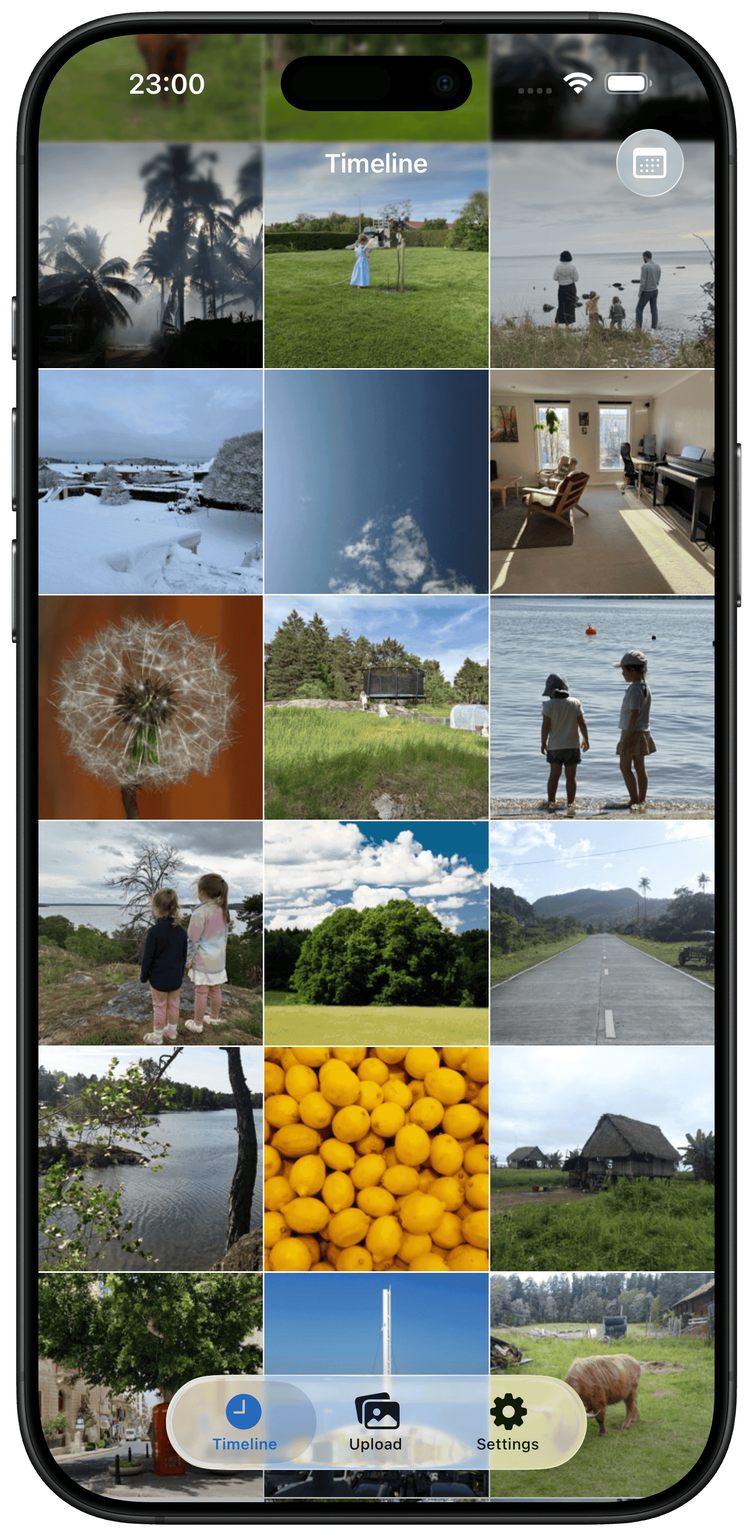
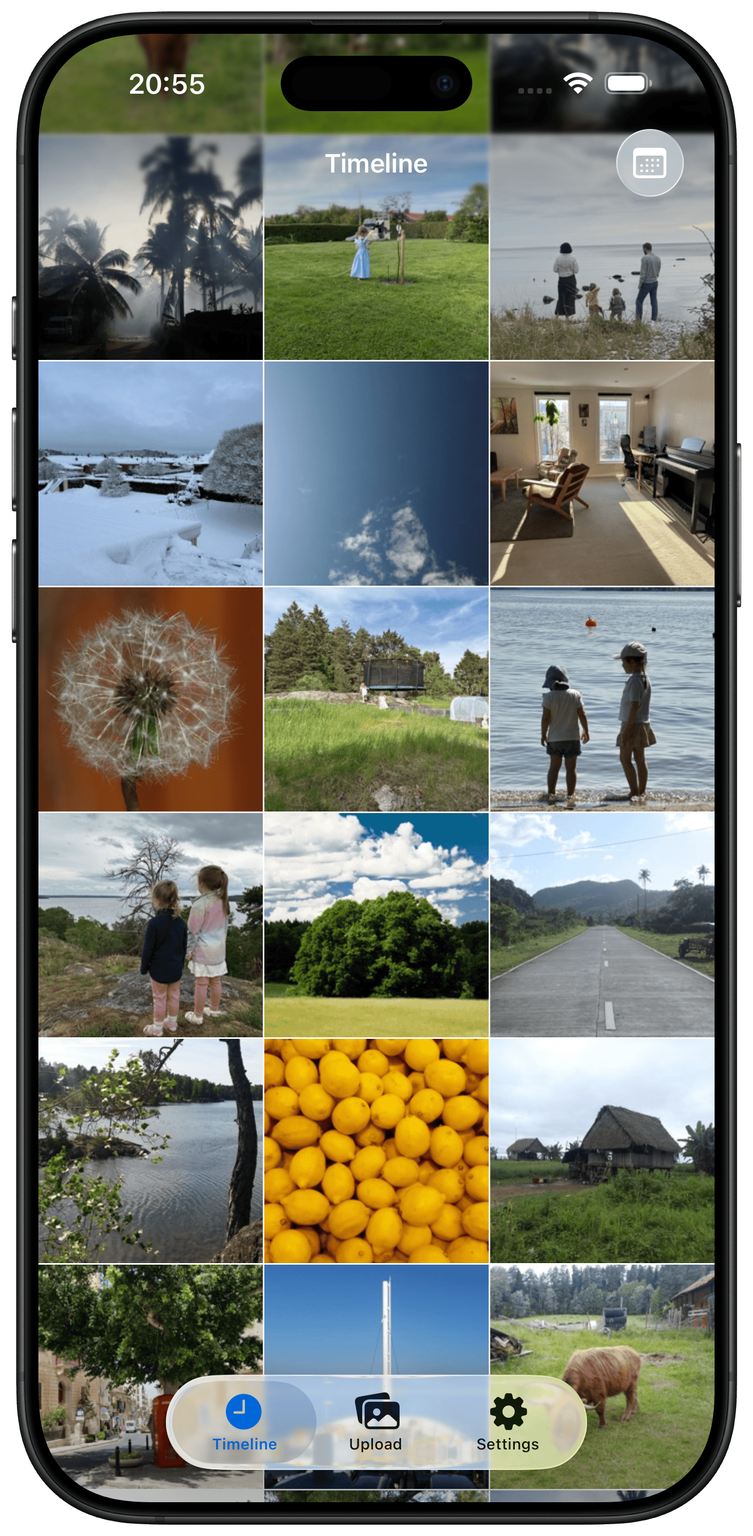
iosapp: hide settings warning badge in screenshot fixture
Seed a dummy recovery-key pair so marketing captures look like a
healthy library instead of an account that still needs a key.

diff --git a/iosapp/iosapp/TestSupport.swift b/iosapp/iosapp/TestSupport.swift
@@ -360,6 +360,10 @@ class TestSupport {
                 content: thumbnailSetManifest
             ))
         }
+
+        if useScreenshotFixtures {
+            filesToCommit.append(contentsOf: screenshotRecoveryKeyFiles())
+        }
         
         // Commit all files (this commits the LFS pointers)
         try repo.createCommit(
@@ -443,6 +447,17 @@ class TestSupport {
     // Switches fixture strategy so screenshot runs use sanitized demo photos while regular UI tests keep deterministic synthetic media.
     static func shouldUseScreenshotFixtures(arguments: [String]) -> Bool {
         arguments.contains("--screenshots")
+    }
+
+    // Seeds a recovery-key pair so marketing screenshots show a healthy
+    // Settings tab instead of the missing-key warning badge.
+    static func screenshotRecoveryKeyFiles() -> [(path: String, content: String)] {
+        let uuid = "00000000-0000-4000-8000-000000000001"
+        let label = "home"
+        return [
+            (path: "pubkeys/\(label)-\(uuid).recovery.pub", content: "ssh"),
+            (path: "pubkeys/\(label)-\(uuid).recovery.age", content: "age"),
+        ]
     }
 
     // Clears local repository/config leftovers so the privacy screenshot relaunch cannot reopen the seeded library.

diff --git a/iosapp/iosappTests/ScreenshotMediaTests.swift b/iosapp/iosappTests/ScreenshotMediaTests.swift
@@ -1,5 +1,7 @@
 import Foundation
 import ImageIO
+import GitDB
+import LibGit2
 import Testing
 @testable import iosapp
 
@@ -135,5 +137,24 @@ struct ScreenshotMediaTests {
 
         let flattenedURLs = try TestSupport.screenshotMediaURLs(in: flattenedRoot)
         #expect(flattenedURLs.map(\.lastPathComponent) == ["demo-02.jpg"])
+    }
+
+    // Locks the screenshot recovery-key filenames so marketing captures hide
+    // the Settings missing-key badge without special-casing product UI.
+    @Test
+    func screenshotRecoveryKeyFilesClearSettingsWarning() throws {
+        let root = (NSTemporaryDirectory() as NSString)
+            .appendingPathComponent("screenshot-recovery-\(UUID().uuidString)")
+        defer { try? FileManager.default.removeItem(atPath: root) }
+        try FileManager.default.createDirectory(atPath: root, withIntermediateDirectories: true)
+        try Git.initialize()
+
+        let repo = try Repository.create(at: root, bare: false)
+        try repo.createCommit(
+            message: "seed screenshot recovery key",
+            files: TestSupport.screenshotRecoveryKeyFiles()
+        )
+
+        #expect(try RecoveryKeyManager().hasRecoveryKey(repository: repo))
     }
 }
